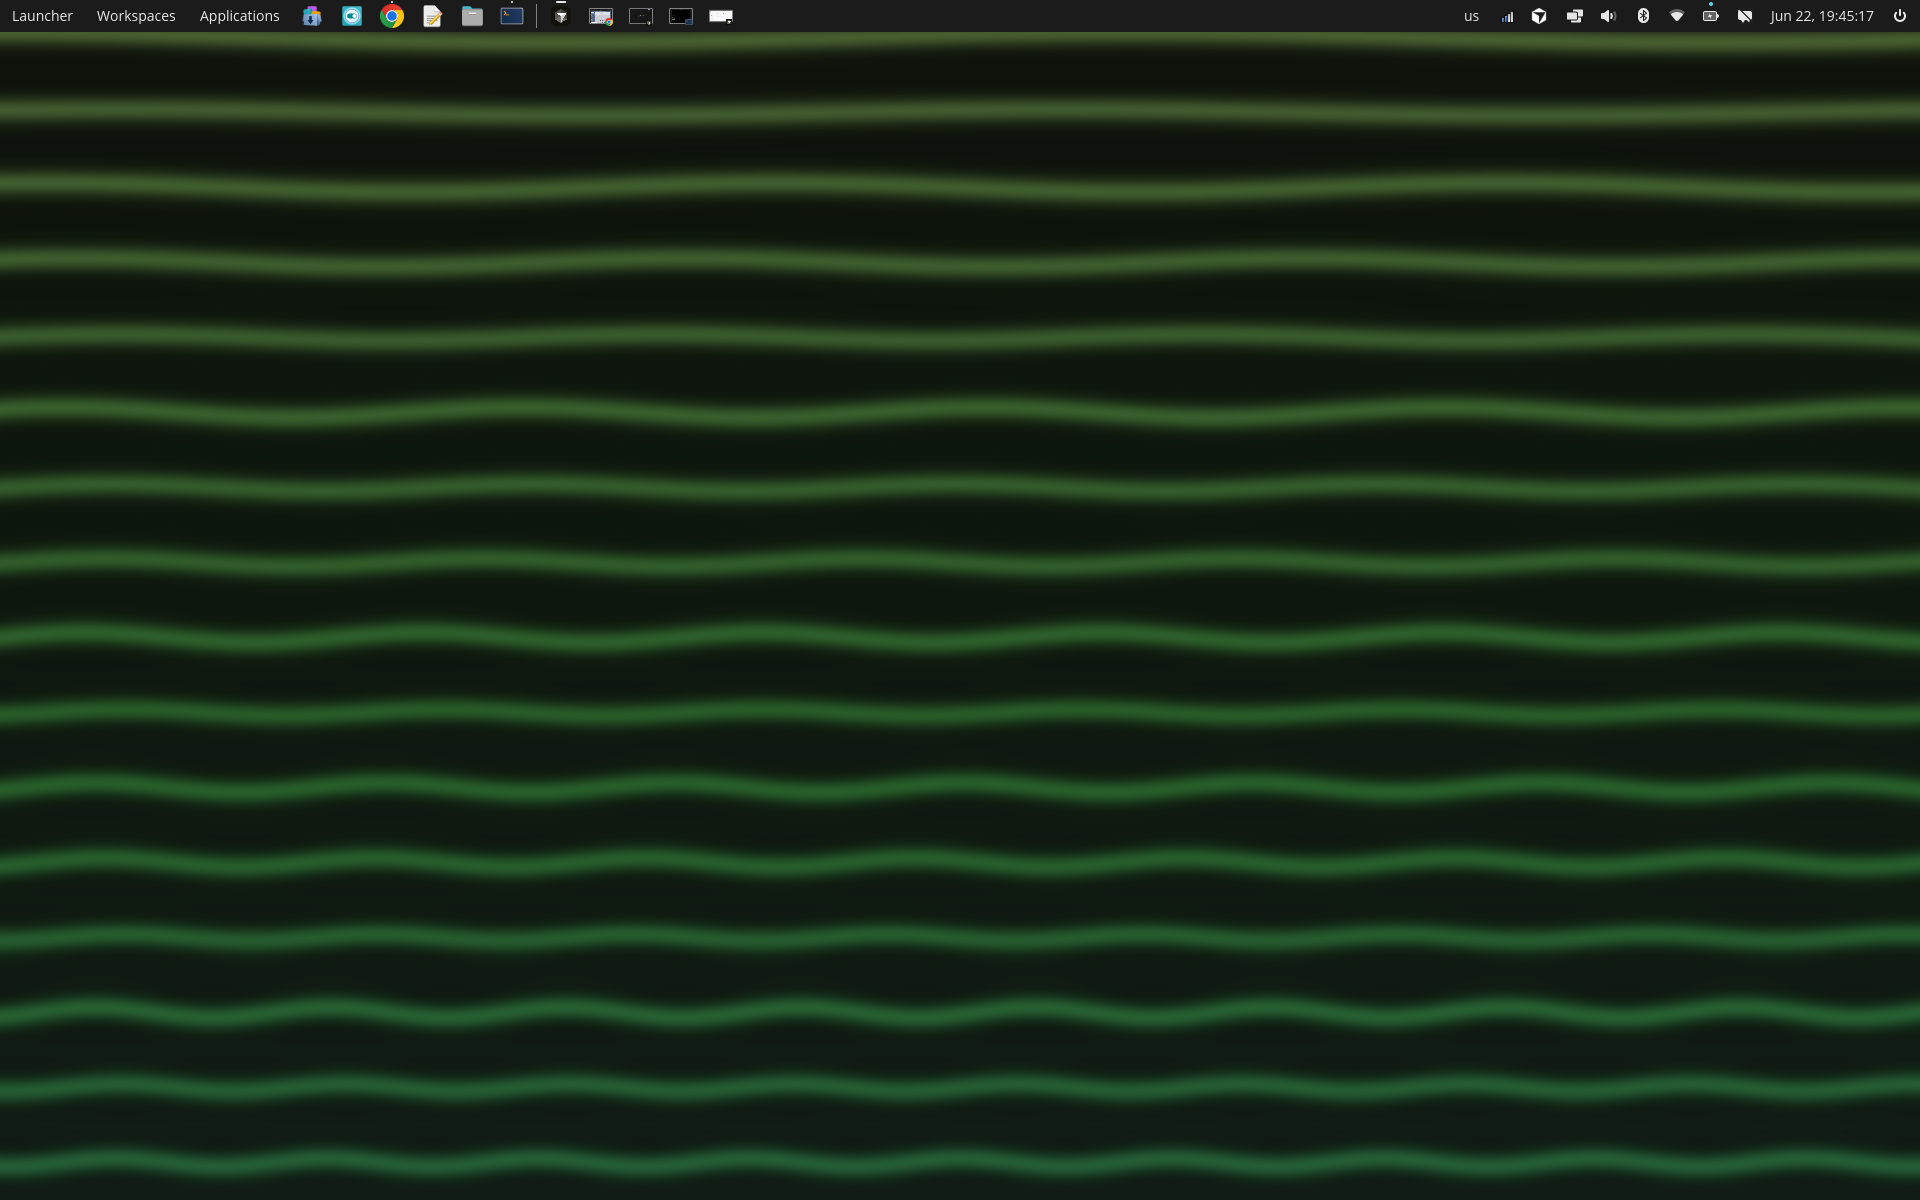
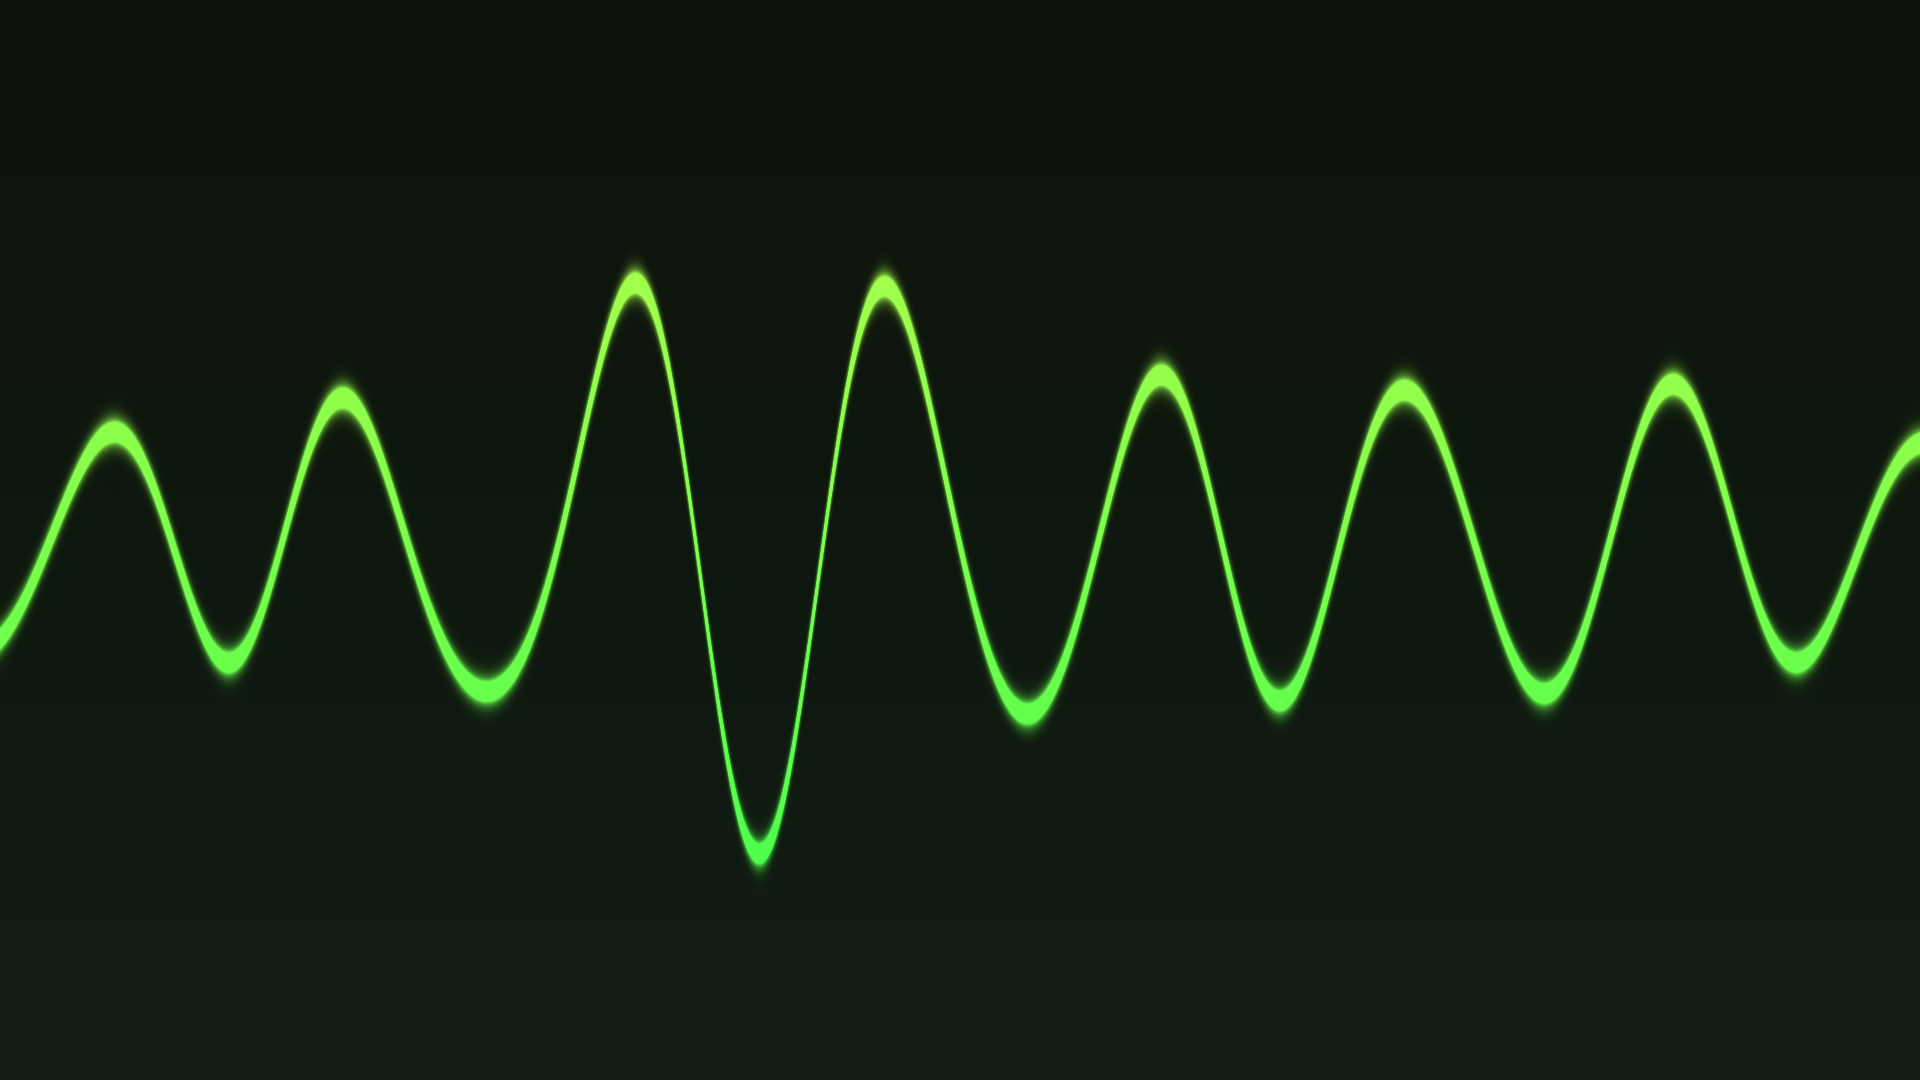
Swap README screenshot to composite mode

diff --git a/README.md b/README.md
@@ -11,9 +11,9 @@ Audio-reactive animated desktop background for **Pop!_OS 24.04 COSMIC**.
 
 Renders WGSL shaders on a Wayland layer-shell background surface, driven by real-time FFT analysis of the default audio monitor (`@DEFAULT_MONITOR@` via PipeWire/Pulse).
 
-![cosmic-audio-bg running in stripes mode on the COSMIC desktop](docs/screenshot.png)
+![cosmic-audio-bg rendering the composite waveform](docs/screenshot.png)
 
-*Default `stripes` mode: 16 horizontal stripes, one continuous sinusoid per FFT band.*
+*`composite` mode: a single glowing wave that is the superposition of all 16 FFT-band sinusoids.*
 
 ## Quick start
 